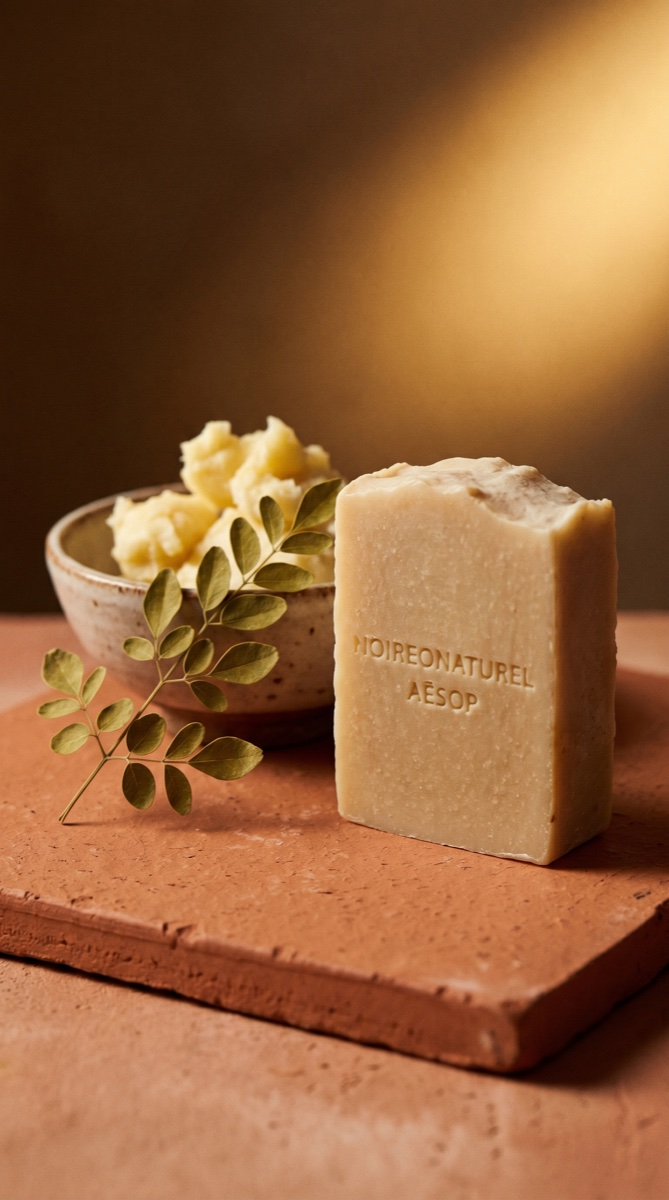
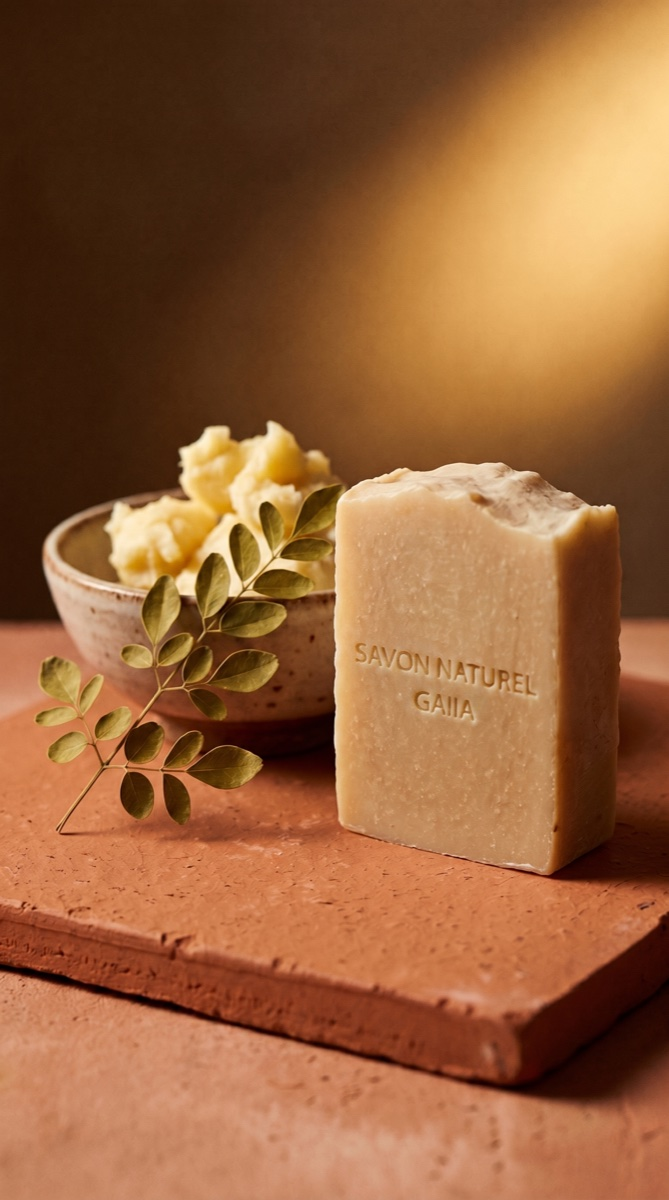
fix: replace NOIREONATUREL AESOP soap with GAIIA, add 2 new visuals
- skincare-05: replaced with SAVON NATUREL GAIIA on terracotta
- skincare-16: new — artisanal soap on linen with shea butter
- skincare-17: new — portrait skincare application on face

diff --git a/marques-auteur.html b/marques-auteur.html
@@ -486,7 +486,7 @@ footer{
       <img src="assets/img/campaigns/skincare/skincare-02.jpg" alt="Campagne beauté — flat lay botanique, savon artisanal, baobab, miel et moringa sur pierre" loading="lazy">
       <img src="assets/img/campaigns/skincare/skincare-03.jpg" alt="Campagne beauté — flat lay ingrédients ancestraux et flacon ambre sur lin" loading="lazy">
       <img src="assets/img/campaigns/skincare/skincare-04.jpg" alt="Campagne beauté — trio de savons artisanaux sur marbre, lumière dorée cinématographique" loading="lazy">
-      <img src="assets/img/campaigns/skincare/skincare-05.jpg" alt="Campagne beauté — packshot savon naturel sur terre cuite avec karité et moringa" loading="lazy">
+      <img src="assets/img/campaigns/skincare/skincare-05.jpg" alt="Campagne beauté — savon naturel GAIIA sur terre cuite, karité et moringa" loading="lazy">
       <img src="assets/img/campaigns/skincare/skincare-06.jpg" alt="Campagne beauté — macro texture savon artisanal, herbes et grains visibles" loading="lazy">
       <img src="assets/img/campaigns/skincare/skincare-07.jpg" alt="Campagne beauté — still life huile dorée, amandes et fleurs sur terre cuite" loading="lazy">
       <img src="assets/img/campaigns/skincare/skincare-08.jpg" alt="Campagne beauté — flacon savon corps label pharmaceutique sur marbre blanc" loading="lazy">
@@ -497,6 +497,8 @@ footer{
       <img src="assets/img/campaigns/skincare/skincare-13.jpg" alt="Campagne beauté — portrait frontal présentant savon doré artisanal" loading="lazy">
       <img src="assets/img/campaigns/skincare/skincare-14.jpg" alt="Campagne beauté — portrait rapproché, sourire, savon présenté face caméra" loading="lazy">
       <img src="assets/img/campaigns/skincare/skincare-15.jpg" alt="Campagne beauté — couverture éditoriale, portrait souverain style magazine" loading="lazy">
+      <img src="assets/img/campaigns/skincare/skincare-16.jpg" alt="Campagne beauté — savon artisanal ocre sur lin, beurre de karité en coque de noix de coco" loading="lazy">
+      <img src="assets/img/campaigns/skincare/skincare-17.jpg" alt="Campagne beauté — portrait application soin sur visage, lumière dorée" loading="lazy">
     </div>
   </article>
 
